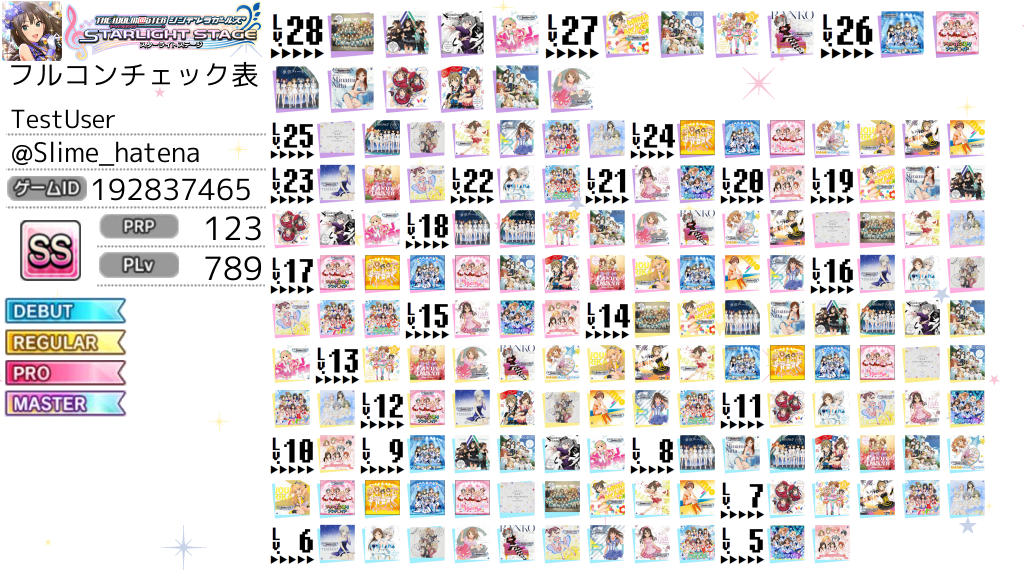
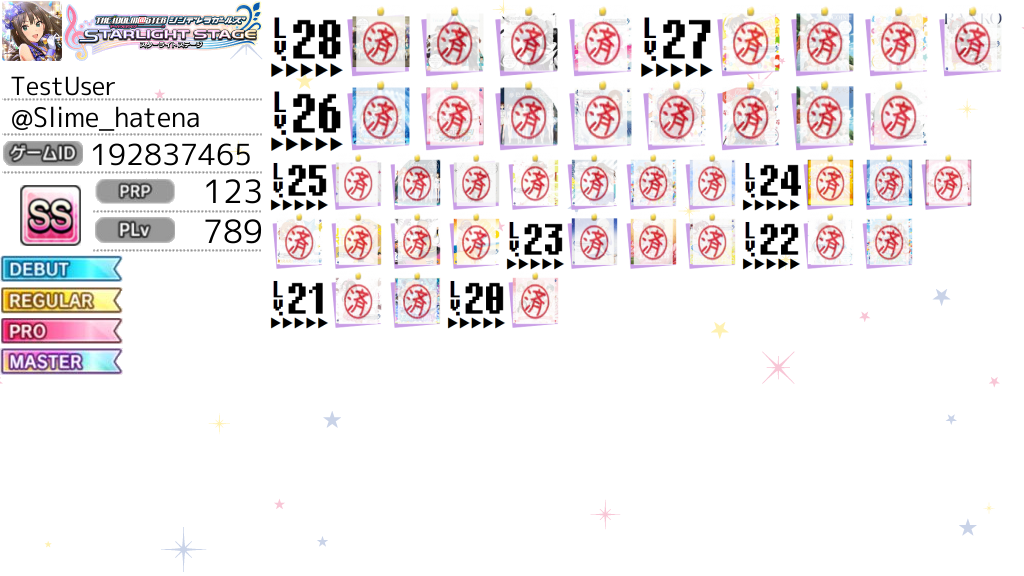
済マークがつくようにした
曲別生成を実装
かなり適当にやってるのでまだまだミスあるかも

diff --git a/index.html b/index.html
@@ -220,7 +220,7 @@
 				<td><input id="04_3" class="Pro" type="checkbox" name="arr[]"
 					value="16_0"></td>
 				<td><input id="04_4" class="Master" type="checkbox"
-					name="arr[]" value="25_1"></td>
+					name="arr[]" value="22_0"></td>
 			</tr>
 			<tr class="bg05">
 				<th class="index"><div class="wrapper">メッセージ</div></th>
@@ -231,7 +231,7 @@
 				<td><input id="05_3" class="Pro" type="checkbox" name="arr[]"
 					value="16_1"></td>
 				<td><input id="05_4" class="Master" type="checkbox"
-					name="arr[]" value="25_4"></td>
+					name="arr[]" value="25_1"></td>
 			</tr>
 			<tr class="bg06">
 				<th class="index"><div class="wrapper">S(mile)ING!</div></th>
@@ -240,7 +240,7 @@
 				<td><input id="06_2" class="Regular" type="checkbox"
 					name="arr[]" value="11_1"></td>
 				<td><input id="06_3" class="Pro" type="checkbox" name="arr[]"
-					value="15_3"></td>
+					value="15_2"></td>
 				<td><input id="06_4" class="Master" type="checkbox"
 					name="arr[]" value="21_1"></td>
 			</tr>
